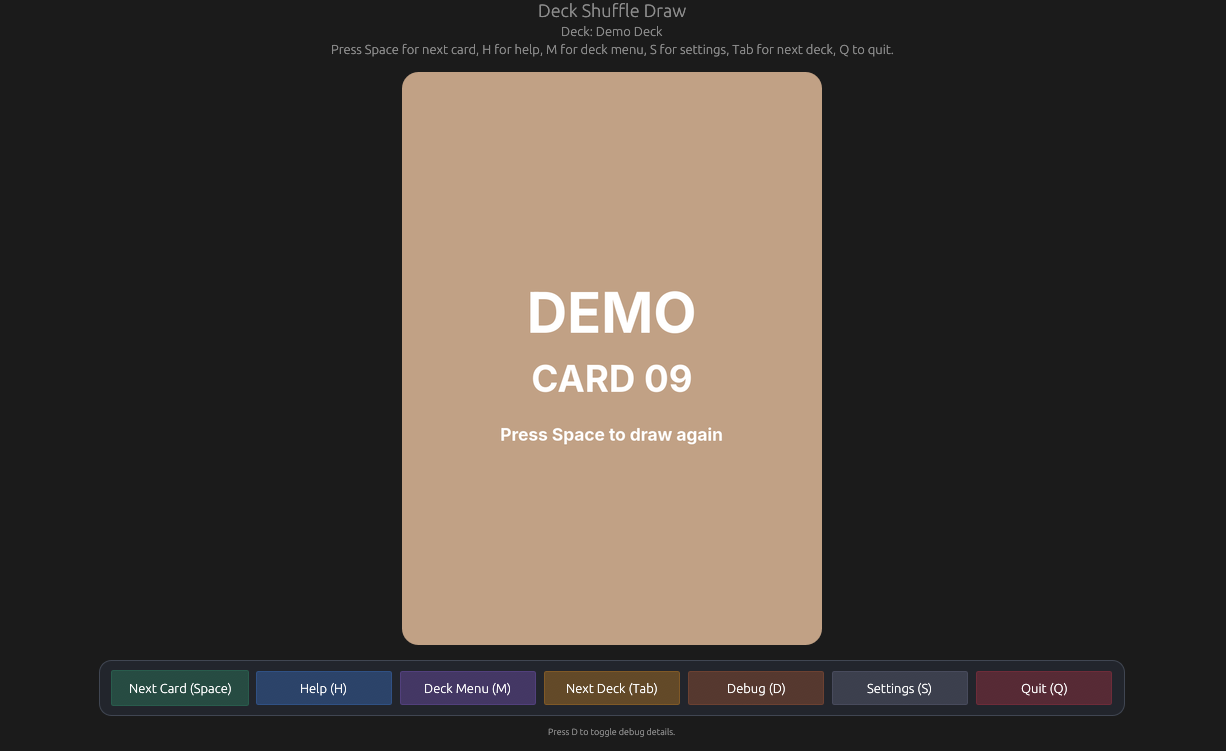
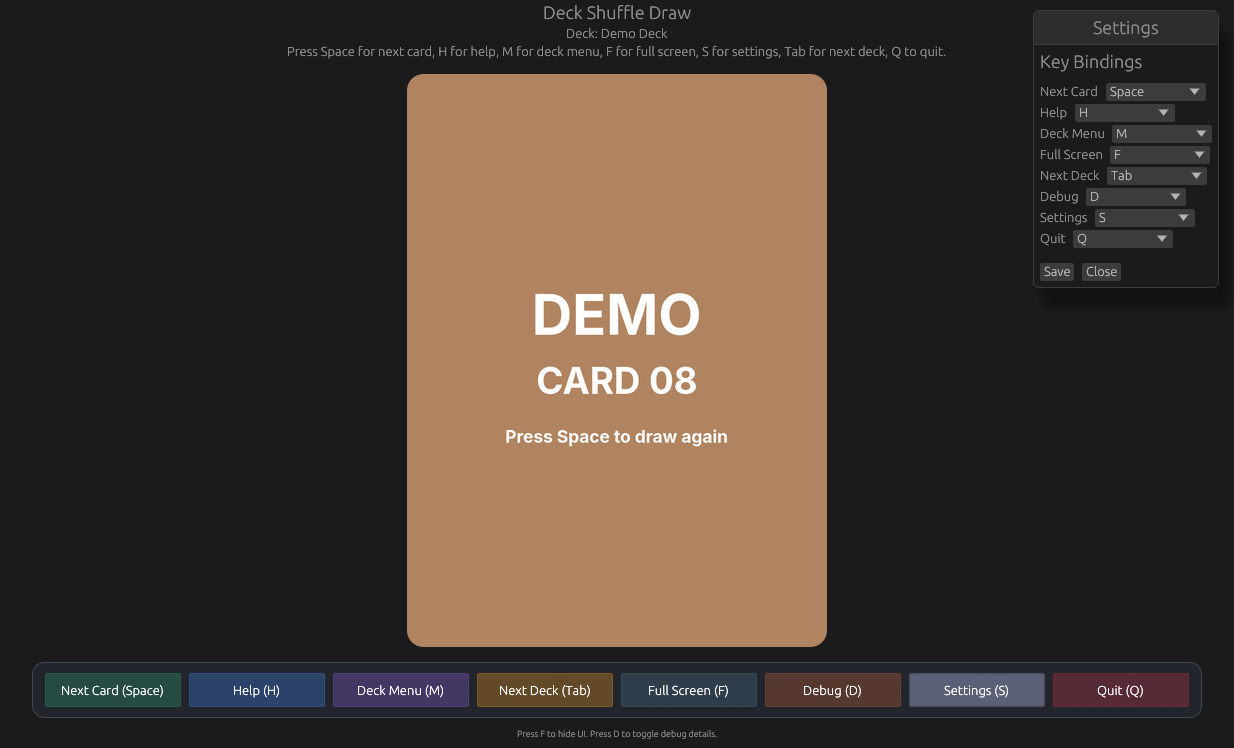
Update app labels, settings, and README wording to use Hide UI instead of fullscreen, while keeping legacy toggle_full_screen settings compatible. (#3)

diff --git a/src/settings.rs b/src/settings.rs
@@ -56,7 +56,7 @@ pub struct KeyBindings {
     pub next_card: Key,
     pub toggle_help: Key,
     pub toggle_deck_menu: Key,
-    pub toggle_full_screen: Key,
+    pub toggle_hide_ui: Key,
     pub next_deck: Key,
     pub toggle_debug: Key,
     pub open_settings: Key,
@@ -68,8 +68,8 @@ pub struct KeyBindingsFile {
     next_card: String,
     toggle_help: String,
     toggle_deck_menu: String,
-    #[serde(default = "default_toggle_full_screen_key")]
-    toggle_full_screen: String,
+    #[serde(default = "default_toggle_hide_ui_key", alias = "toggle_full_screen")]
+    toggle_hide_ui: String,
     next_deck: String,
     toggle_debug: String,
     open_settings: String,
@@ -119,7 +119,10 @@ impl AppSettings {
         }
 
         let decks = build_decks(&raw, base_dir)?;
-        let active_deck = raw.active_deck.unwrap_or(0).min(decks.len().saturating_sub(1));
+        let active_deck = raw
+            .active_deck
+            .unwrap_or(0)
+            .min(decks.len().saturating_sub(1));
         let keybindings = KeyBindings::from_file(raw.keybindings.unwrap_or_default())?;
         keybindings.validate_unique()?;
         let ui_style = UiStyle::from_file(raw.ui_style.unwrap_or_default())?;
@@ -147,7 +150,10 @@ impl AppSettings {
                     .map(|deck| DeckConfigFile {
                         name: Some(deck.name.clone()),
                         image_dir: relative_to(base_dir, &deck.image_dir),
-                        help_image: deck.help_image.as_ref().map(|path| relative_to(base_dir, path)),
+                        help_image: deck
+                            .help_image
+                            .as_ref()
+                            .map(|path| relative_to(base_dir, path)),
                     })
                     .collect(),
             ),
@@ -178,7 +184,7 @@ impl Default for KeyBindingsFile {
             next_card: "Space".to_string(),
             toggle_help: "H".to_string(),
             toggle_deck_menu: "M".to_string(),
-            toggle_full_screen: "F".to_string(),
+            toggle_hide_ui: "F".to_string(),
             next_deck: "Tab".to_string(),
             toggle_debug: "D".to_string(),
             open_settings: "S".to_string(),
@@ -187,7 +193,7 @@ impl Default for KeyBindingsFile {
     }
 }
 
-fn default_toggle_full_screen_key() -> String {
+fn default_toggle_hide_ui_key() -> String {
     "F".to_string()
 }
 
@@ -213,7 +219,7 @@ impl KeyBindings {
             next_card: parse_key(&raw.next_card)?,
             toggle_help: parse_key(&raw.toggle_help)?,
             toggle_deck_menu: parse_key(&raw.toggle_deck_menu)?,
-            toggle_full_screen: parse_key(&raw.toggle_full_screen)?,
+            toggle_hide_ui: parse_key(&raw.toggle_hide_ui)?,
             next_deck: parse_key(&raw.next_deck)?,
             toggle_debug: parse_key(&raw.toggle_debug)?,
             open_settings: parse_key(&raw.open_settings)?,
@@ -226,7 +232,7 @@ impl KeyBindings {
             next_card: self.next_card.label().to_string(),
             toggle_help: self.toggle_help.label().to_string(),
             toggle_deck_menu: self.toggle_deck_menu.label().to_string(),
-            toggle_full_screen: self.toggle_full_screen.label().to_string(),
+            toggle_hide_ui: self.toggle_hide_ui.label().to_string(),
             next_deck: self.next_deck.label().to_string(),
             toggle_debug: self.toggle_debug.label().to_string(),
             open_settings: self.open_settings.label().to_string(),
@@ -239,7 +245,7 @@ impl KeyBindings {
             ("next_card", self.next_card),
             ("toggle_help", self.toggle_help),
             ("toggle_deck_menu", self.toggle_deck_menu),
-            ("toggle_full_screen", self.toggle_full_screen),
+            ("toggle_hide_ui", self.toggle_hide_ui),
             ("next_deck", self.next_deck),
             ("toggle_debug", self.toggle_debug),
             ("open_settings", self.open_settings),
@@ -371,9 +377,13 @@ where
 
         let default_settings_path = root.join(DEFAULT_SETTINGS_FILE_NAME);
         if default_settings_path.is_file() {
-            let default_settings_text = fs::read_to_string(&default_settings_path).map_err(|error| {
-                format!("Failed to read {}: {error}", default_settings_path.display())
-            })?;
+            let default_settings_text =
+                fs::read_to_string(&default_settings_path).map_err(|error| {
+                    format!(
+                        "Failed to read {}: {error}",
+                        default_settings_path.display()
+                    )
+                })?;
             fs::write(&settings_path, &default_settings_text).map_err(|error| {
                 format!(
                     "Failed to create {} from {}: {error}",
@@ -422,7 +432,10 @@ pub fn bindable_keys() -> &'static [Key] {
     ]
 }
 
-fn read_settings_file(settings_path: &Path, base_dir: &Path) -> Result<(AppSettings, PathBuf), String> {
+fn read_settings_file(
+    settings_path: &Path,
+    base_dir: &Path,
+) -> Result<(AppSettings, PathBuf), String> {
     let settings_text = fs::read_to_string(settings_path)
         .map_err(|error| format!("Failed to read {}: {error}", settings_path.display()))?;
     let raw: AppSettingsFile = toml::from_str(&settings_text)
@@ -550,7 +563,7 @@ mod tests {
             next_card: Key::Space,
             toggle_help: Key::H,
             toggle_deck_menu: Key::M,
-            toggle_full_screen: Key::F,
+            toggle_hide_ui: Key::F,
             next_deck: Key::Tab,
             toggle_debug: Key::D,
             open_settings: Key::Space,
@@ -644,7 +657,7 @@ mod tests {
     }
 
     #[test]
-    fn missing_toggle_full_screen_defaults_to_f() {
+    fn missing_toggle_hide_ui_defaults_to_f() {
         let raw: KeyBindingsFile = toml::from_str(
             r#"
 next_card = "Space"
@@ -660,7 +673,28 @@ quit = "Q"
 
         let bindings = KeyBindings::from_file(raw).expect("legacy keybindings should parse");
 
-        assert_eq!(bindings.toggle_full_screen, Key::F);
+        assert_eq!(bindings.toggle_hide_ui, Key::F);
+    }
+
+    #[test]
+    fn legacy_toggle_full_screen_key_is_supported() {
+        let raw: KeyBindingsFile = toml::from_str(
+            r#"
+next_card = "Space"
+toggle_help = "H"
+toggle_deck_menu = "M"
+toggle_full_screen = "F"
+next_deck = "Tab"
+toggle_debug = "D"
+open_settings = "S"
+quit = "Q"
+"#,
+        )
+        .expect("legacy keybindings should deserialize");
+
+        let bindings = KeyBindings::from_file(raw).expect("legacy keybindings should parse");
+
+        assert_eq!(bindings.toggle_hide_ui, Key::F);
     }
 
     #[test]
@@ -707,9 +741,10 @@ help_image = "demo-assets/help/demo-deck-help.png"
             root.join("demo-assets/decks/demo-deck")
         );
 
-        let copied_settings = fs::read_to_string(&settings_path).expect("settings should be copied");
-        let default_settings =
-            fs::read_to_string(&default_settings_path).expect("default settings should be readable");
+        let copied_settings =
+            fs::read_to_string(&settings_path).expect("settings should be copied");
+        let default_settings = fs::read_to_string(&default_settings_path)
+            .expect("default settings should be readable");
         assert_eq!(copied_settings, default_settings);
     }
 }

diff --git a/src/app.rs b/src/app.rs
@@ -325,7 +325,7 @@ impl CardApp {
         if ctx.input(|input| input.key_pressed(keybindings.toggle_debug)) {
             self.show_debug = !self.show_debug;
         }
-        if ctx.input(|input| input.key_pressed(keybindings.toggle_full_screen)) {
+        if ctx.input(|input| input.key_pressed(keybindings.toggle_hide_ui)) {
             self.toggle_ui_chrome();
         }
         if ctx.input(|input| input.key_pressed(keybindings.toggle_deck_menu)) {
@@ -427,7 +427,7 @@ impl CardApp {
             ui.add_space(8.0);
             ui.small(format!(
                 "Press {} to hide UI. Press {} to toggle debug details.",
-                keybindings.toggle_full_screen.label(),
+                keybindings.toggle_hide_ui.label(),
                 keybindings.toggle_debug.label()
             ));
         });
@@ -437,11 +437,11 @@ impl CardApp {
         ui.heading("Deck Shuffle Draw");
         ui.label(format!("Deck: {}", self.settings.current_deck().name));
         ui.label(format!(
-            "Press {} for next card, {} for help, {} for deck menu, {} for full screen, {} for settings, {} for next deck, {} to quit.",
+            "Press {} for next card, {} for help, {} for deck menu, {} to hide UI, {} for settings, {} for next deck, {} to quit.",
             keybindings.next_card.label(),
             keybindings.toggle_help.label(),
             keybindings.toggle_deck_menu.label(),
-            keybindings.toggle_full_screen.label(),
+            keybindings.toggle_hide_ui.label(),
             keybindings.open_settings.label(),
             keybindings.next_deck.label(),
             keybindings.quit.label(),
@@ -616,7 +616,7 @@ impl CardApp {
                             }
                             if control_button(
                                 ui,
-                                format!("Full Screen ({})", keybindings.toggle_full_screen.label()),
+                                format!("Hide UI ({})", keybindings.toggle_hide_ui.label()),
                                 self.hide_ui_chrome,
                                 FULL_SCREEN_BUTTON_TONE,
                             )
@@ -669,7 +669,7 @@ impl CardApp {
             .anchor(egui::Align2::RIGHT_TOP, [-12.0, 12.0])
             .order(egui::Order::Foreground)
             .show(ctx, |ui| {
-                let label = format!("Show UI ({})", keybindings.toggle_full_screen.label());
+                let label = format!("Show UI ({})", keybindings.toggle_hide_ui.label());
                 let response = ui.add(
                     egui::Button::new(
                         egui::RichText::new(label)
@@ -763,7 +763,7 @@ impl CardApp {
                     &[
                         snapshot.toggle_help,
                         snapshot.toggle_deck_menu,
-                        snapshot.toggle_full_screen,
+                        snapshot.toggle_hide_ui,
                         snapshot.next_deck,
                         snapshot.toggle_debug,
                         snapshot.open_settings,
@@ -777,7 +777,7 @@ impl CardApp {
                     &[
                         snapshot.next_card,
                         snapshot.toggle_deck_menu,
-                        snapshot.toggle_full_screen,
+                        snapshot.toggle_hide_ui,
                         snapshot.next_deck,
                         snapshot.toggle_debug,
                         snapshot.open_settings,
@@ -791,7 +791,7 @@ impl CardApp {
                     &[
                         snapshot.next_card,
                         snapshot.toggle_help,
-                        snapshot.toggle_full_screen,
+                        snapshot.toggle_hide_ui,
                         snapshot.next_deck,
                         snapshot.toggle_debug,
                         snapshot.open_settings,
@@ -800,8 +800,8 @@ impl CardApp {
                 );
                 key_binding_row(
                     ui,
-                    "Full Screen",
-                    &mut draft.toggle_full_screen,
+                    "Hide UI",
+                    &mut draft.toggle_hide_ui,
                     &[
                         snapshot.next_card,
                         snapshot.toggle_help,
@@ -820,7 +820,7 @@ impl CardApp {
                         snapshot.next_card,
                         snapshot.toggle_help,
                         snapshot.toggle_deck_menu,
-                        snapshot.toggle_full_screen,
+                        snapshot.toggle_hide_ui,
                         snapshot.toggle_debug,
                         snapshot.open_settings,
                         snapshot.quit,
@@ -834,7 +834,7 @@ impl CardApp {
                         snapshot.next_card,
                         snapshot.toggle_help,
                         snapshot.toggle_deck_menu,
-                        snapshot.toggle_full_screen,
+                        snapshot.toggle_hide_ui,
                         snapshot.next_deck,
                         snapshot.open_settings,
                         snapshot.quit,
@@ -848,7 +848,7 @@ impl CardApp {
                         snapshot.next_card,
                         snapshot.toggle_help,
                         snapshot.toggle_deck_menu,
-                        snapshot.toggle_full_screen,
+                        snapshot.toggle_hide_ui,
                         snapshot.next_deck,
                         snapshot.toggle_debug,
                         snapshot.quit,
@@ -862,7 +862,7 @@ impl CardApp {
                         snapshot.next_card,
                         snapshot.toggle_help,
                         snapshot.toggle_deck_menu,
-                        snapshot.toggle_full_screen,
+                        snapshot.toggle_hide_ui,
                         snapshot.next_deck,
                         snapshot.toggle_debug,
                         snapshot.open_settings,

diff --git a/README.md b/README.md
@@ -10,12 +10,14 @@ Small Rust desktop app for drawing a random card from a configured deck.
 - click the card image: show the next card
 - `H`: show or hide the help image for the current deck
 - `M`: open the deck picker
+- `F`: hide or show the app UI chrome for a cleaner card view
 - `Tab`: switch to the next deck
 - `D`: show or hide debug details
 - `S`: open or close the settings window
 - `Q`: quit
 
 The app also shows on-screen buttons for these actions below the card image.
+When the UI chrome is hidden, a subtle `Show UI` button appears in the top-right corner so you can bring the controls back without using the keyboard.
 
 ## Asset Layout
 
@@ -90,4 +92,5 @@ cargo run
 - The app keeps cached textures in memory while running.
 - Changing decks updates `active_deck` in `settings.toml`, so the app reopens on the last selected deck.
 - The settings window edits keybindings as a draft and only applies them when you save.
+- The hide UI control only hides the app UI chrome; it does not change the operating system window mode.
 - The tracked default config points at the demo deck so the app can run without private assets.
